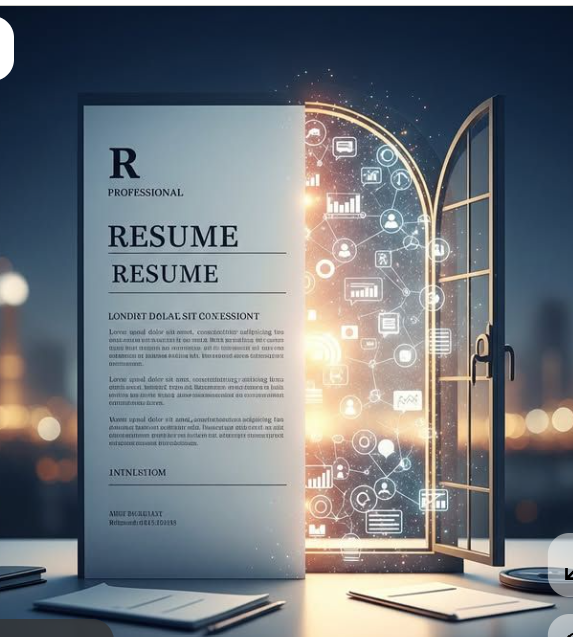
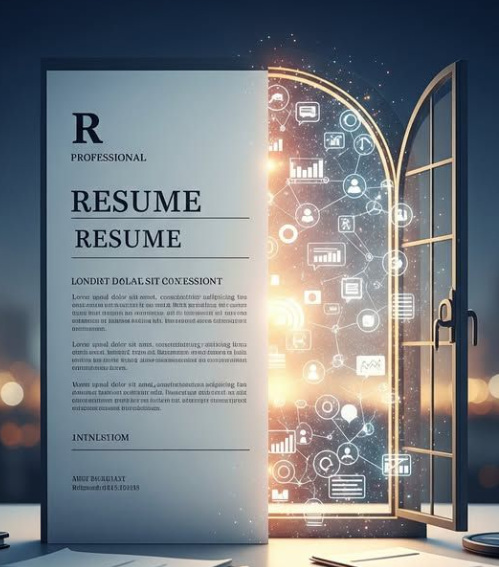
feat: add HowItWorks component and accompanying promotional portal image to landing page

diff --git a/frontend/src/components/landing/HowItWorks.tsx b/frontend/src/components/landing/HowItWorks.tsx
@@ -97,7 +97,7 @@ export default function HowItWorks() {
                   <img
                     src="/images/ai-career-portal.png"
                     alt="AI Resume to Career Opportunity Portal"
-                    className="w-full h-auto object-cover transform transition-transform duration-700 group-hover:scale-105"
+                    className="w-full h-auto object-cover transform scale-[1.04] group-hover:scale-[1.08] transition-transform duration-700"
                     loading="lazy"
                   />
                   {/* Floating status badge */}
